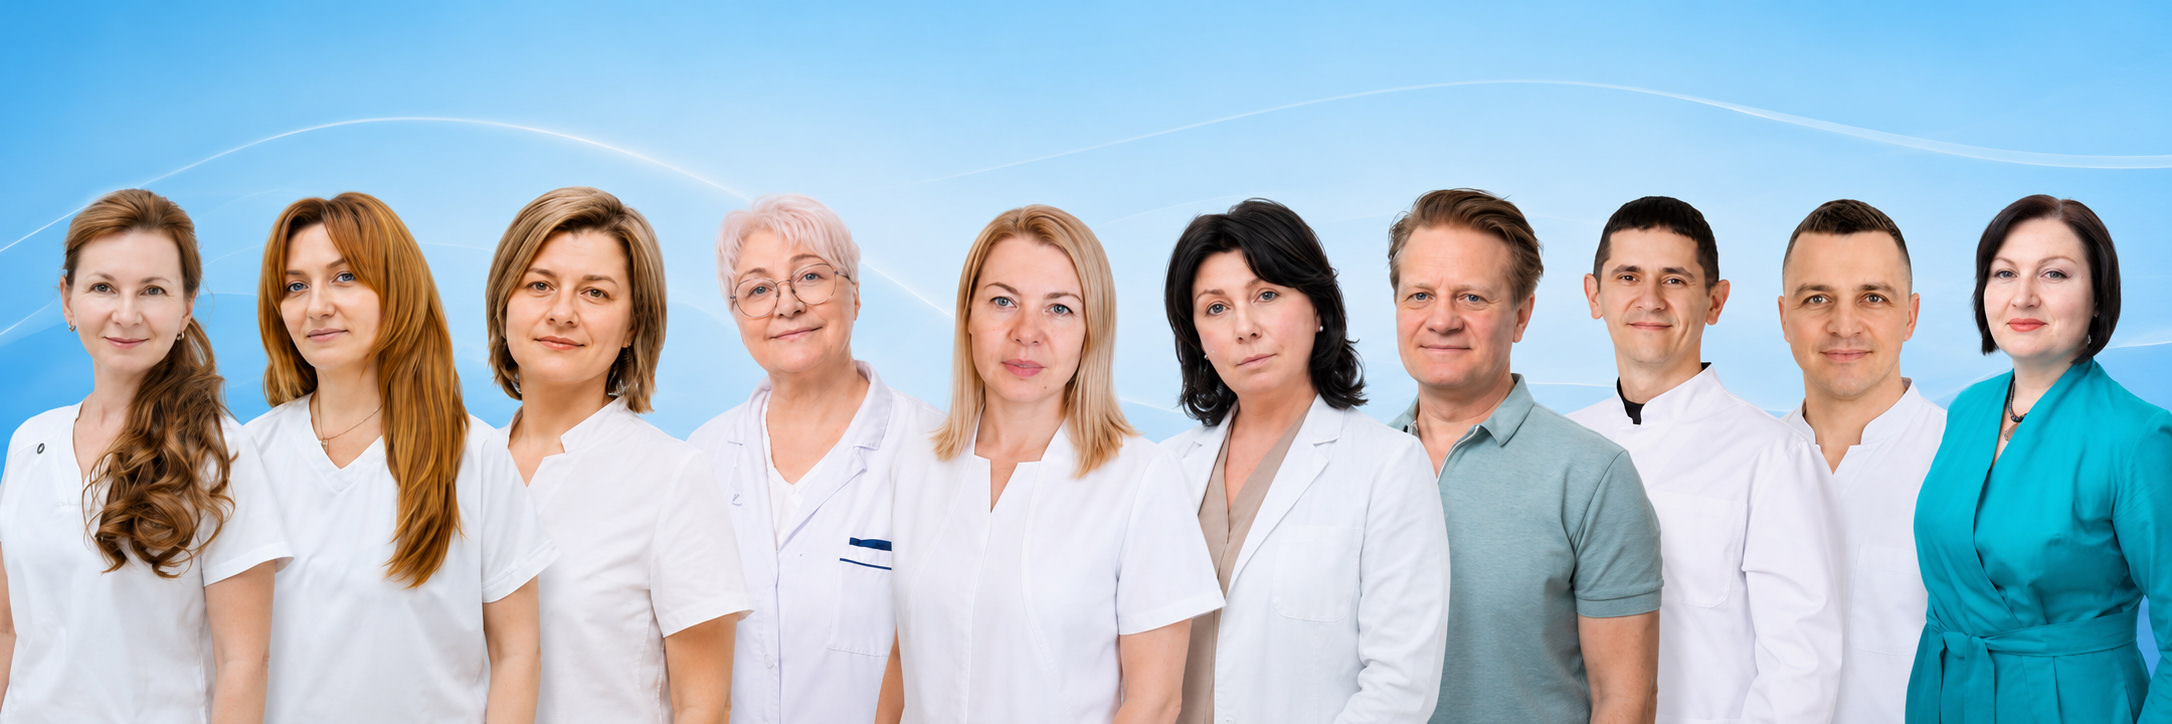
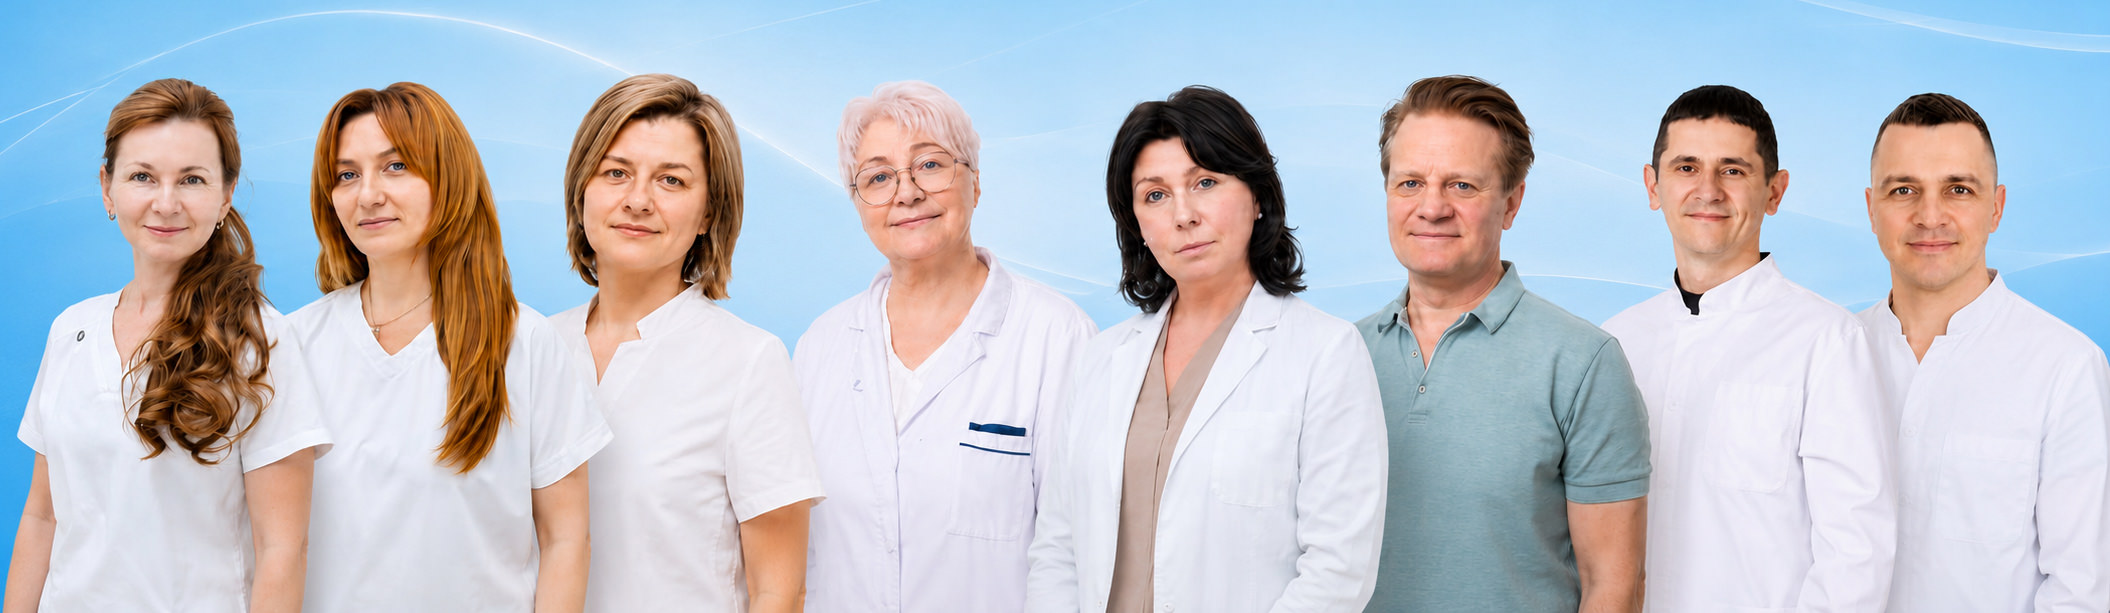
feat: Update PIN code and remove references to deleted doctors and images

diff --git a/config.php b/config.php
@@ -1232,24 +1232,6 @@ $doctors = [
         'image' => 'kostromina-default.jpg',
     ],
     [
-        'id' => 11,
-        'slug' => 'donskaya-galina-vitalyevna',
-        'name' => 'Донская Галина Витальевна',
-        'title' => 'Управляющий директор клиники, соавтор лечебного проекта «Хабилект»',
-        'specialty' => 'Управление клиникой, организация сервиса и сопровождение пациентского маршрута',
-        'experience' => 'Управленческая практика в медицинских проектах',
-        'bio' => 'Управляет ежедневной работой клиники, отвечает за качество сервиса и выстраивает процессы так, чтобы пациент получал понятный и комфортный маршрут взаимодействия с командой БИОИНМЕД.',
-        'focus' => [
-            'Управление клиникой и координация ключевых внутренних процессов',
-            'Повышение качества сервиса и сопровождения пациентов',
-            'Организация слаженной работы команды и операционных процессов',
-        ],
-        'services' => [],
-        'image' => 'donskaya.jpg',
-        'has_profile' => false,
-        'card_action_text' => '',
-    ],
-    [
         'id' => 7,
         'slug' => 'rozhkov-sergei-leonidovich',
         'name' => 'Рожков Сергей Леонидович',
@@ -1310,33 +1292,6 @@ $doctors = [
             'semyanoterapiya',
         ],
         'image' => 'kondratova.jpg',
-    ],
-    [
-        'id' => 2,
-        'slug' => 'ferencz-nadezhda-yurevna',
-        'name' => 'Ференц Надежда Юрьевна',
-        'title' => 'Практический интегративный психолог',
-        'specialty' => 'Интегративный психолог-консультант, полимодальный подход, психосоматическое сопровождение',
-        'experience' => 'Частная консультативная практика',
-        'bio' => 'Помогает справиться с тревогой, паникой, стрессом, выгоранием, зависимостями и повторяющимися сценариями. Работает с глубинными причинами проблем и помогает выстроить план действий с первых встреч.',
-        'specializations' => [
-            'Кататимно-имагинативная терапия и авторские визуализации',
-            'Репарационная психология и работа с зависимостями',
-            'Психосоматическая кинезиология и телесно-ориентированная терапия',
-            'Когнитивно-поведенческие и коучинговые инструменты',
-        ],
-        'education' => 'Институт психологии Smart, Открытая Европейская академия экономики и политики (Прага), Международная академия репарационной психологии и терапии, дополнительная подготовка по КПТ, консультированию и работе с тревогой и стрессом.',
-        'focus' => [
-            'Поддержка при тревоге, панике, стрессе и эмоциональном выгорании',
-            'Личные границы, самоценность и повторяющиеся сценарии в отношениях',
-            'Психосоматическое сопровождение при хронической боли и телесных симптомах',
-        ],
-        'services' => [
-            'priem-psikhologa',
-            'psychotherapy',
-            'psikhologiya',
-        ],
-        'image' => 'ferencz.jpg',
     ],
     [
         'id' => 9,

diff --git a/includes/components/Components.php b/includes/components/Components.php
@@ -1185,7 +1185,7 @@ class VisualGallery extends Component {
                         <img src="/public/images/team/kostromina-default.jpg" alt="Костромина Инна Викторовна" class="h-56 w-full object-cover" loading="lazy" />
                     </div>
                     <div class="overflow-hidden rounded-2xl border border-[#dce8f5]">
-                        <img src="/public/images/team/ferencz.jpg" alt="Ференц Надежда Юрьевна" class="h-56 w-full object-cover" loading="lazy" />
+                        <img src="/public/images/team/navrozov.jpg" alt="Наврозов Евгений Сергеевич" class="h-56 w-full object-cover" loading="lazy" />
                     </div>
                     <div class="overflow-hidden rounded-2xl border border-[#dce8f5]">
                         <img src="/public/images/team/nehorosheva.jpg" alt="Нехорошева Людмила Сергеевна" class="h-56 w-full object-cover" loading="lazy" />

diff --git a/prices.php b/prices.php
@@ -442,7 +442,7 @@ $breadcrumbStructuredData = bioinmed_breadcrumb_schema([
             <section id="psychology" class="category-section">
                 <div class="flex items-center gap-3 mb-6 pb-4 border-b-2 border-[#2fbdef]">
                     <h2 class="text-2xl font-bold text-[#2fbdef]">Психология</h2>
-                    <span class="inline-flex items-center rounded-full bg-[#2fbdef] px-2.5 py-1 text-[0.66rem] font-semibold uppercase tracking-[0.08em] text-white">Ференц Н.Ю.</span>
+                    <span class="inline-flex items-center rounded-full bg-[#2fbdef] px-2.5 py-1 text-[0.66rem] font-semibold uppercase tracking-[0.08em] text-white">Специалист</span>
                 </div>
                 <div class="overflow-x-auto">
                     <table class="w-full border-collapse">

diff --git a/config/services.php b/config/services.php
@@ -153,7 +153,7 @@ return array (
   array (
     'id' => 'psychotherapy',
     'name' => 'Психотерапевтическая консультация',
-    'subtitle' => 'Ференц Надежда Юрьевна, интегративный психолог',
+    'subtitle' => 'Интегративный психолог',
     'category' => 'psychology',
     'price' => 'от 5 000 ₽',
     'price_note' => '/сеанс',

diff --git a/splash.php b/splash.php
@@ -11,7 +11,7 @@ if (session_status() === PHP_SESSION_NONE) {
 
 require_once __DIR__ . '/config.php';
 
-$correct_pin = '0336';
+$correct_pin = '1290';
 $error_message = '';
 $is_ajax = !empty($_SERVER['HTTP_X_REQUESTED_WITH']) && strtolower($_SERVER['HTTP_X_REQUESTED_WITH']) === 'xmlhttprequest';
 

diff --git a/PIN_PROTECTION.md b/PIN_PROTECTION.md
@@ -3,7 +3,7 @@
 ## Описание
 Сайт защищен красивой заглушкой с PIN-кодом. По умолчанию защита включена.
 
-**PIN-код для входа:** `0336`
+**PIN-код для входа:** `1290`
 
 ## Как работает
 1. При попытке доступа к защищенной странице пользователь перенаправляется на `splash.php`
@@ -25,7 +25,7 @@ PIN_PROTECTION_ENABLED=0
 ## Как изменить PIN-код
 Отредактируйте файл `splash.php` и измените значение переменной `$correct_pin`:
 ```php
-$correct_pin = 'ВАШЕ_ЧИСЛО'; // По умолчанию: 0336
+$correct_pin = 'ВАШЕ_ЧИСЛО'; // По умолчанию: 1290
 ```
 
 ## Защищенные страницы
